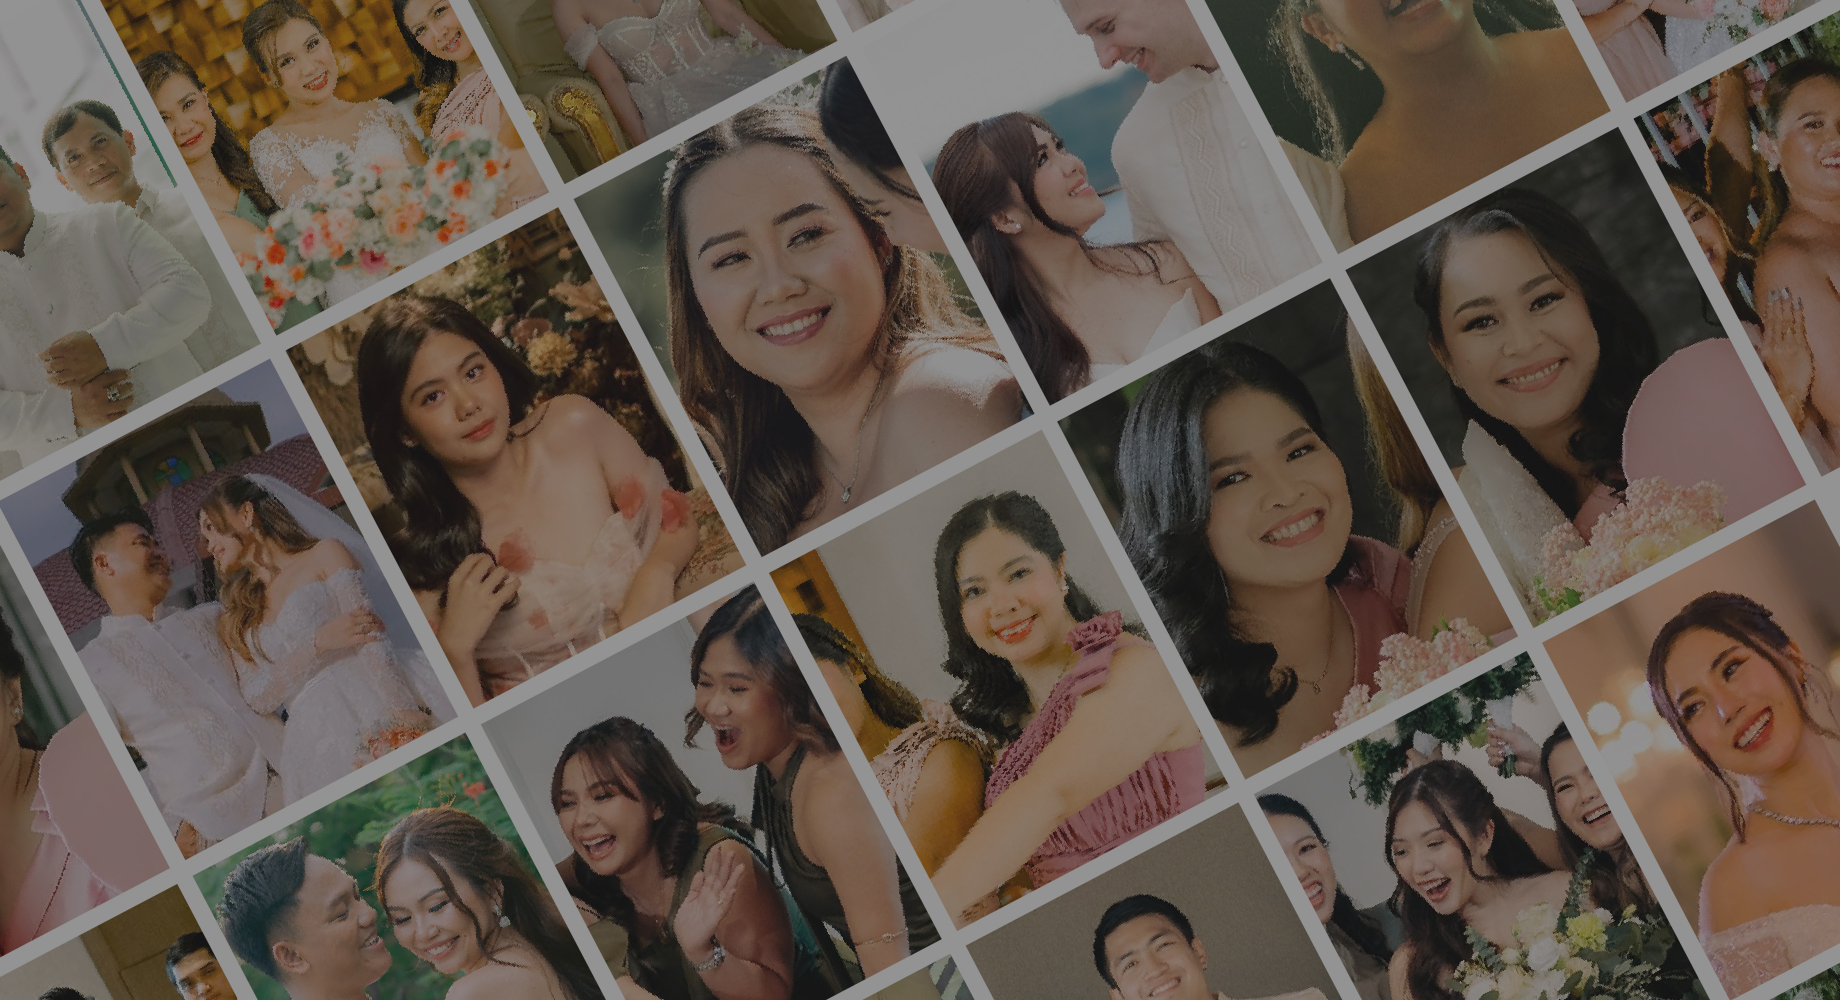
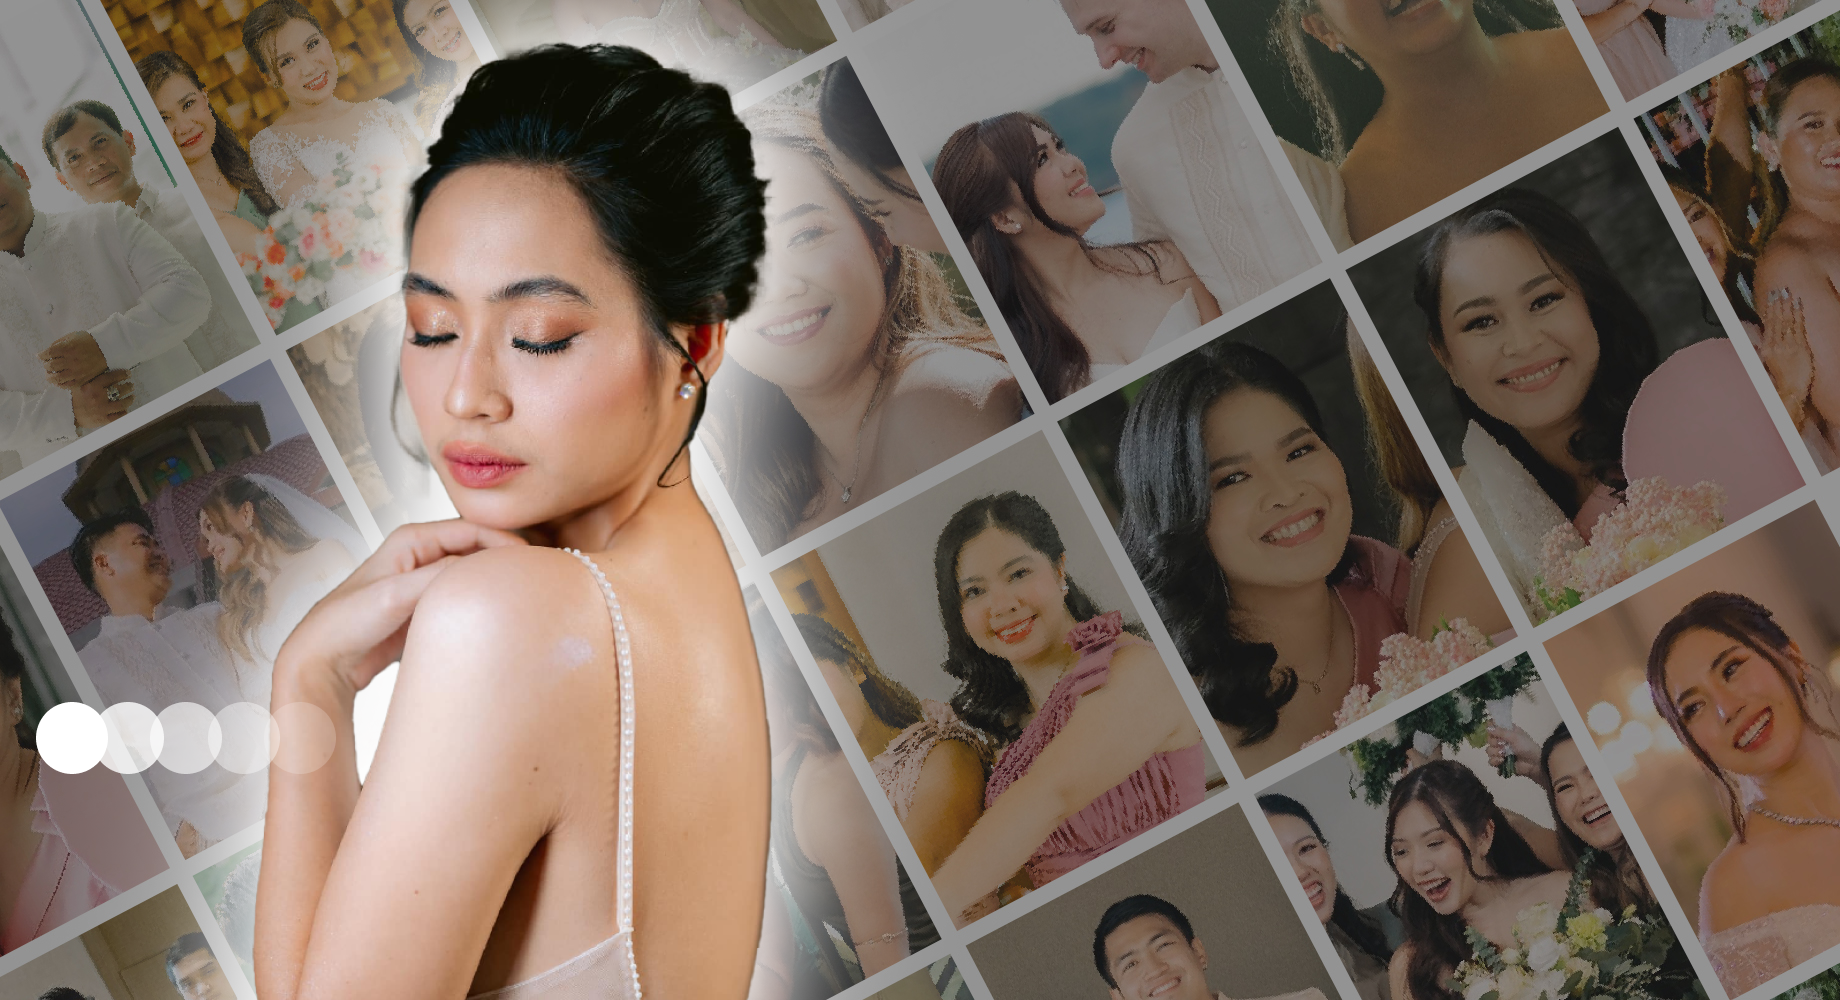
landing page fix

diff --git a/resources/css/app.css b/resources/css/app.css
@@ -4,3 +4,8 @@
 @source '../../storage/framework/views/*.php';
 @source '../**/*.blade.php';
 @source '../**/*.js';
+
+
+@theme {
+  --font-inria: "Inria Serif", serif;
+}

diff --git a/resources/views/components/landing.blade.php b/resources/views/components/landing.blade.php
@@ -6,48 +6,57 @@
     <title>Love & Styles Rental System</title>
 
     <link rel="shortcut icon" href="{{ asset('lsrs_logo.png') }}?v=1" type="image/png">
+    <link rel="preconnect" href="https://fonts.googleapis.com">
+    <link rel="preconnect" href="https://fonts.gstatic.com" crossorigin>
+    <link href="https://fonts.googleapis.com/css2?family=Inria+Serif:ital,wght@0,300;0,400;0,700;1,300;1,400;1,700&display=swap" rel="stylesheet">
 
     @vite('resources/css/app.css')
 </head>
-<body class="h-screen flex flex-col">
+<body class="h-screen flex flex-col overflow-hidden">
 
     <!-- Hero Section -->
-    <section class="relative flex-1 flex items-center">
+    <section class="relative flex-1">
 
         <!-- Background Collage -->
         <div class="absolute inset-0">
-            <img src="/images/landing_background.png" alt="Collage" 
+            <img src="/images/container.png" alt="Collage" 
                  class="w-full h-full object-cover">
-            <div class="absolute inset-0 bg-black/40"></div>
+            <div class="absolute inset-0 bg-black/30"></div>
         </div>
 
-        <!-- Hero Content Wrapper -->
-        <div class="relative flex flex-1 items-center px-12 z-10">
-            <!-- Left: Lady Image + Tagline -->
-            <div class="flex flex-col justify-center w-1/2 space-y-6 text-white">
-                <img src="/images/landing_character.png" class="w-full max-w-none drop-shadow-2xl mb-6 ">
-                    
+        <!-- Content Wrapper -->
+        <div class="relative h-full flex items-center justify-between px-16 z-10">
+            
+            <!-- Left: Image + Tagline -->
+            <div class="relative flex flex-col justify-center text-white max-w-3xl">
+                <!-- Larger Image -->
+                <img src="/images/main_visual.png" 
+                    alt="Model" 
+                    class="w-[150%] max-w-none drop-shadow-2xl relative z-0 left-[-20%] ">
 
-                <h2 class="text-4xl md:text-5xl font-bold leading-snug">
-                    Your Trusted Partner <br> in Timeless Style.
+                <!-- Quote Text Overlapping the Image -->
+                <h2 class="absolute top-180 left-4 text-6xl md:text-7xl font-bold leading-tight font-inria z-10 drop-shadow-lg">
+                    Your Trusted Partner<br>in Timeless Style.
                 </h2>
             </div>
 
-            <!-- Right: Login Slot -->
-            <div class="flex justify-center w-1/2">
+
+            <!-- Right: Login Card -->
+            <div class="flex items-center -mt-90 mr-2">
                 {{ $slot }}
             </div>
         </div>
-    </section>
 
-    <!-- Footer -->
-    <footer class="bg-white py-4 px-6 flex items-center justify-center space-x-4 shadow-inner">
-        <img src="images/pod_logo.png" alt="Logo" class="w-12 h-12">
-        <p class="text-gray-700 max-w-lg text-sm">
-            Most trusted by people for delivering timeless style and elegant formal wear 
-            for every occasion.
-        </p>
-    </footer>
+        <!-- Footer Badge - Bottom Right Corner -->
+        <div class="absolute right-8 bg-white rounded-2xl py-4 px-6 flex items-center space-x-4 shadow-2xl max-w-md -mt-80 mr-2">
+
+            <img src="images/pod_logo.png" alt="Logo" class="w-14 h-14 flex-shrink-0">
+            <p class="text-gray-800 text-sm leading-relaxed">
+                Most trusted by people for delivering timeless style and elegant formal wear 
+                for every occasion.
+            </p>
+        </div>
+    </section>
 
 </body>
 </html>
